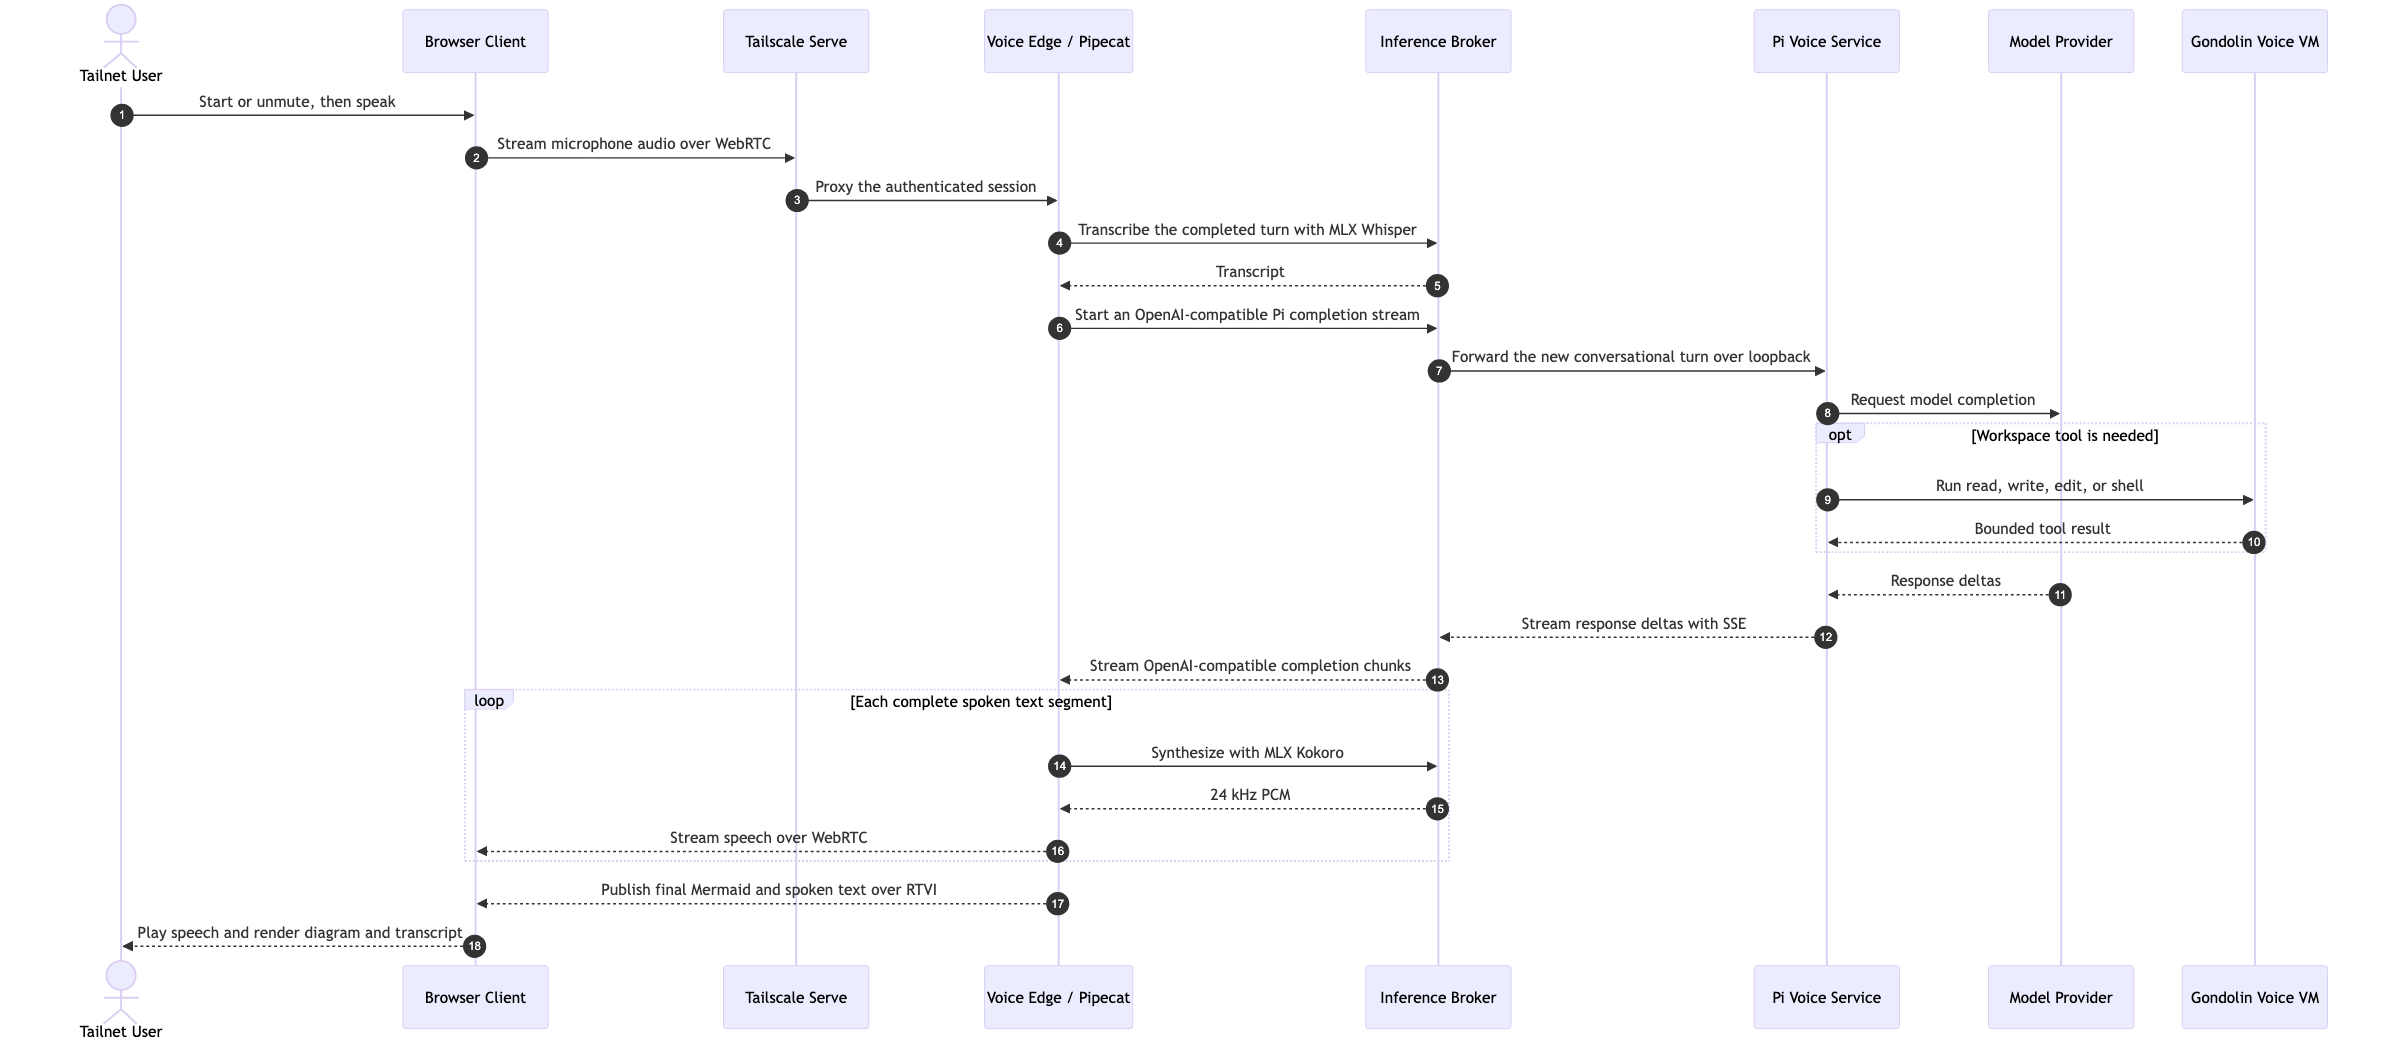
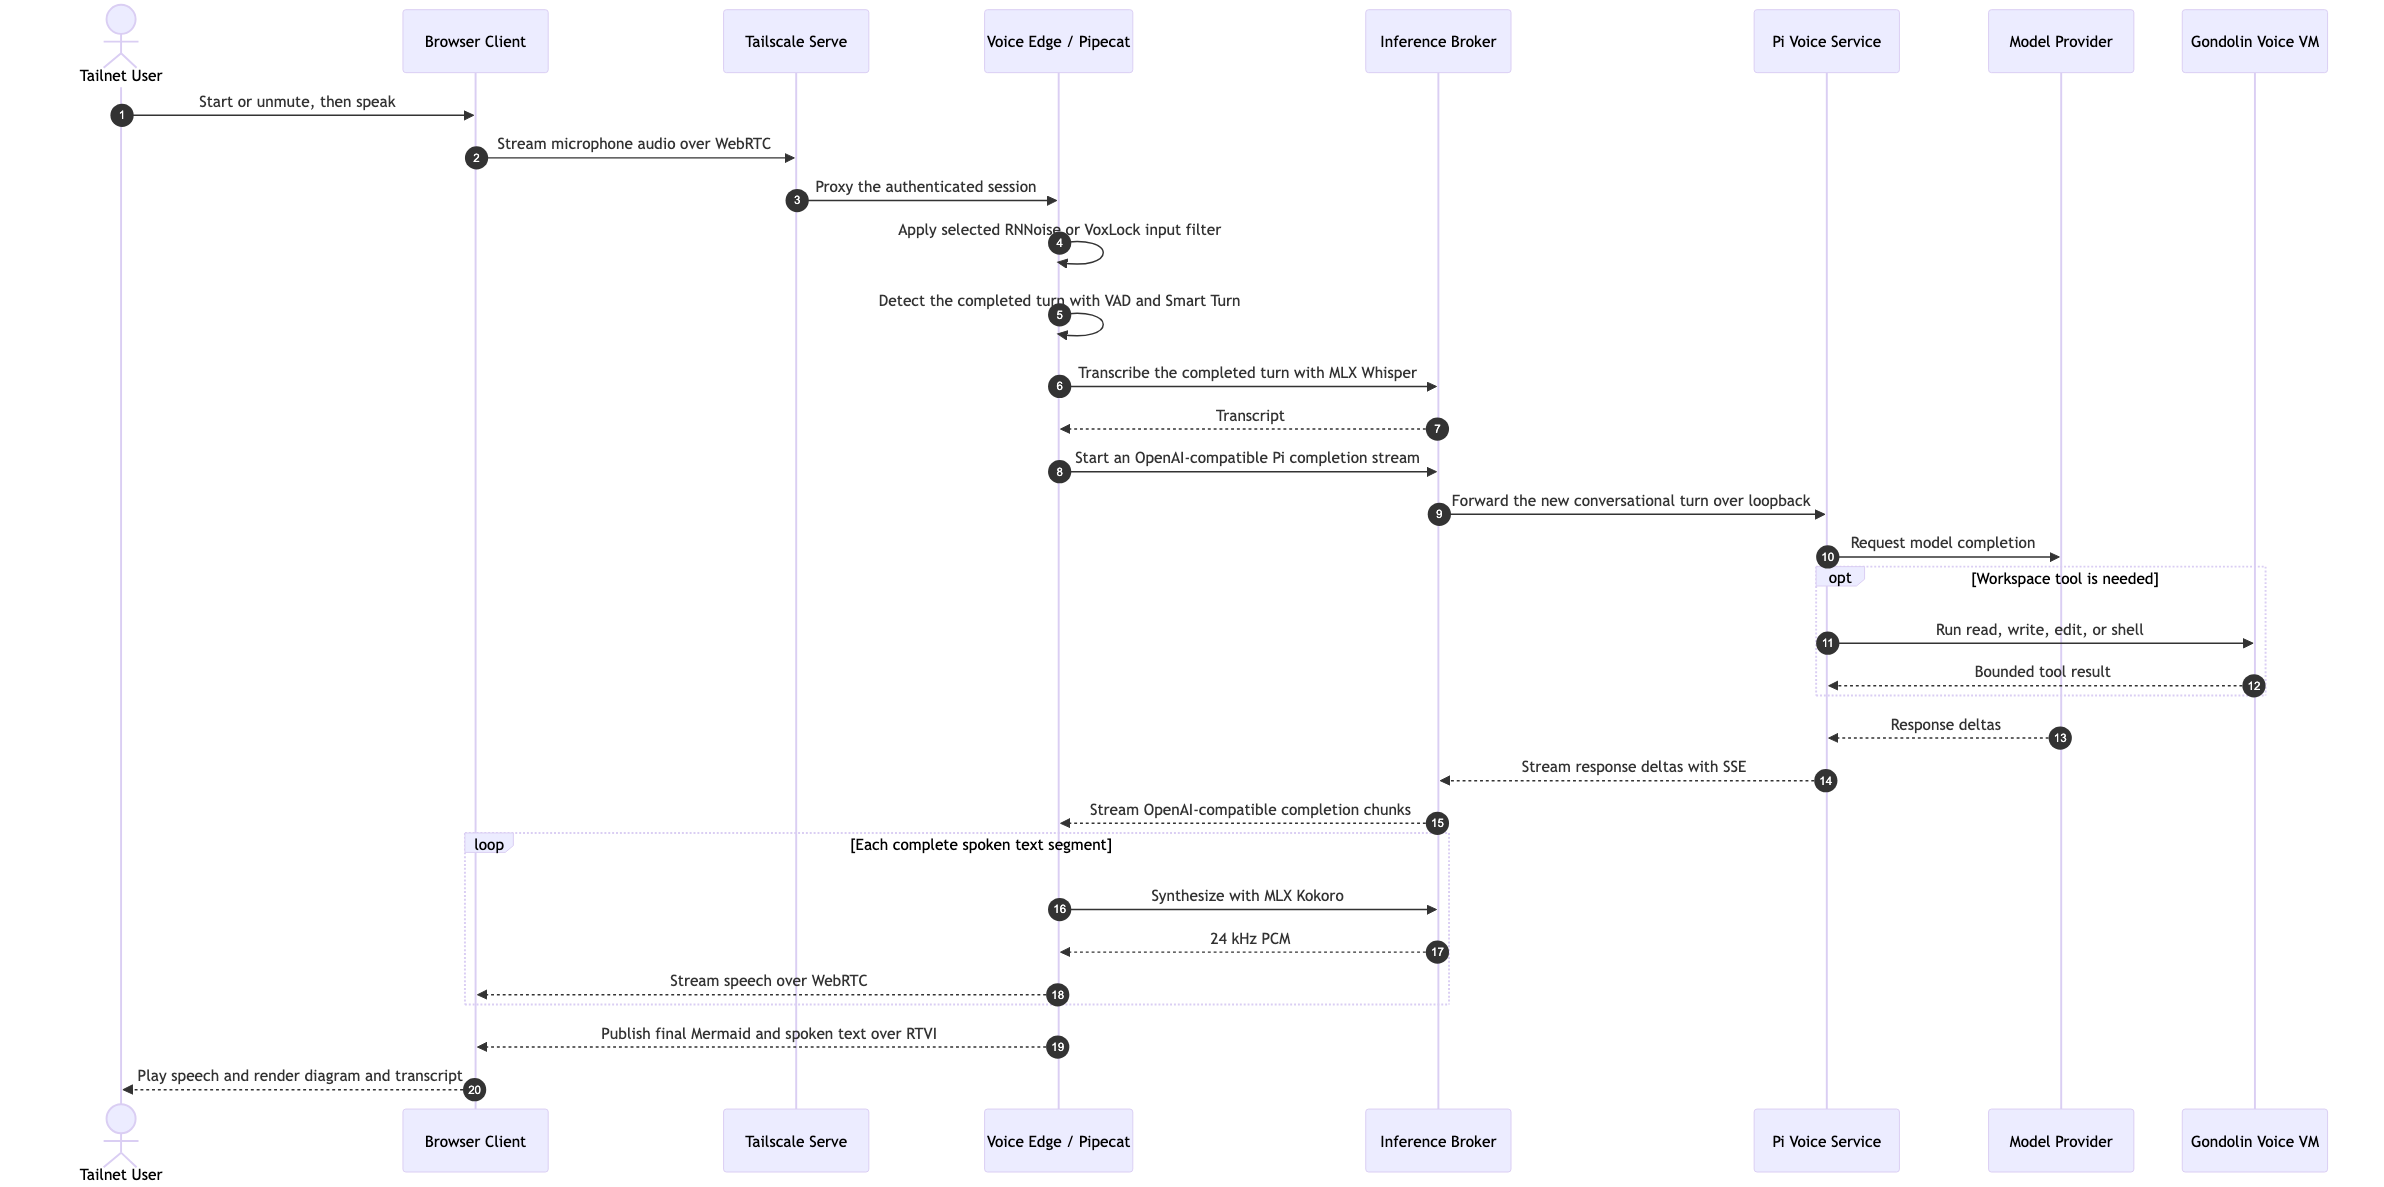
docs(voice): align architecture and Grafana ingress

diff --git a/products/voice-agent/docs/architecture/README.md b/products/voice-agent/docs/architecture/README.md
@@ -12,12 +12,15 @@ notation is used for runtime views because it preserves order without crossing r
 | C2 containers | Which independently running parts own voice, Pi, task, artifact, and telemetry responsibilities? | [c2-container.mmd](c2-container.mmd) | [PNG](c2-container.png) |
 | D1 interactive voice turn | Where does one microphone turn go before audio and Mermaid return to the browser? | [d1-interactive-voice-turn.mmd](d1-interactive-voice-turn.mmd) | [PNG](d1-interactive-voice-turn.png) |
 | D2 delegated task | How does requested project work become an isolated durable task and result? | [d2-delegated-task.mmd](d2-delegated-task.mmd) | [PNG](d2-delegated-task.png) |
+| D3 context management | How does the browser observe and compact the persistent Pi context without reading transcript content? | [d3-context-management.mmd](d3-context-management.mmd) | [PNG](d3-context-management.png) |
 | Deployment/security | Where do the parts run and which trust boundaries do they cross? | [deployment-security.mmd](deployment-security.mmd) | [PNG](deployment-security.png) |
 
 Pipecat is an off-the-shelf library inside the **Voice Edge**, not a separately deployed service.
 It owns WebRTC media orchestration, Silero VAD, Smart Turn v3, STT/LLM/TTS sequencing, heartbeats,
-and pipeline metrics. The React client uses Pipecat RTVI, while Tailscale Serve is the only browser
-ingress. There is no Caddy or public/LAN application port.
+and pipeline metrics. Before turn detection, the edge applies exactly one server-side input filter:
+RNNoise by default or VoxLock when owner-voice isolation is enabled. The React client uses Pipecat
+RTVI, while Tailscale Serve is the only browser ingress. It exposes the voice UI on tailnet HTTPS
+and Grafana on tailnet-only port 8443; there is no Caddy or public/LAN application port.
 
 The active conversational backend is the native **Pi Voice Service**. The edge calls it through the
 capability-limited **Inference Broker**, which converts the streamed native Pi response into the
@@ -38,8 +41,10 @@ Wassette with explicit permissions.
 | Browser Client | `client/src/`; production assets copied by `edge/Containerfile` |
 | Tailnet Ingress | `deploy/compose.yml`; `scripts/compose-login.sh` |
 | Voice Edge | `edge/bot.py`; `edge/Containerfile` |
+| Input Audio Filter | `edge/audio_filter.py`; `deploy/prepare_compose.py`; `edge/Containerfile` |
 | Inference Broker | `server/src/voice_agent/speech/presentation/http.py`; broker LaunchAgent |
 | Pi Voice Service | `services/pi-agent/voice-agent-service.ts`; Pi voice LaunchAgent |
+| Pi Context Usage and Compaction | `client/src/components/App.tsx`; `edge/bot.py`; broker HTTP adapter; `services/pi-agent/voice-agent-service.ts` |
 | Voice Tool Sandbox and Runtime Data | `services/pi-agent/gondolin-workspace.ts`; `scripts/install-launch-agents.sh` |
 | Agent Gateway | `server/src/voice_agent/tasking/presentation/gateway.py`; `gateway/Containerfile` |
 | Task Database and Queue | `server/migrations/`; `tasking/application/service.py`; Compose Postgres service |
@@ -57,7 +62,8 @@ privilege escalation, and receive only narrowly scoped secrets. No service mount
 
 Tailscale authenticates the device, terminates trusted HTTPS, and injects the owner identity. The edge
 requires the exact configured origin and single allowed tailnet login before accepting signaling or
-owner-scoped HTTP operations.
+owner-scoped HTTP operations. Grafana accepts the injected login only from the fixed Tailscale
+container address; direct loopback access continues to require its generated administrator password.
 
 MLX and host-held Pi credentials stay in native loopback-only services because Docker Desktop does not
 provide those host capabilities directly. The broker exposes bounded STT, TTS, Pi completion, and
@@ -66,7 +72,9 @@ selection API. Native Pi tools run inside Gondolin micro-VMs. Optional integrati
 Wassette with declared network and secret permissions.
 
 OTel exports metrics and traces only. Application log export is disabled, Docker logging is disabled
-for content-bearing services, and voice content is deliberately excluded from telemetry.
+for content-bearing services, and voice content is deliberately excluded from telemetry. VoxLock's
+owner sample is a generated Compose secret, while its digest-verified model is baked into the
+read-only edge image; neither is exported through telemetry.
 
 ## Render and verify
 

diff --git a/products/voice-agent/README.md b/products/voice-agent/README.md
@@ -154,10 +154,13 @@ audio or transcript text.
 ## Local observability
 
 The pinned `grafana/otel-lgtm` development bundle provides Grafana, Prometheus, Tempo, and an OTLP
-collector. Open <http://127.0.0.1:3300>, use user `admin`, and obtain the generated local password
-with `make grafana-password`. The provisioned **Pipecat Voice Overview** dashboard shows operation
-rates, p95 durations, errors, and recent traces for the voice edge, gateway, and native MLX
-inference broker.
+collector. From an authenticated tailnet device, open
+<https://pipecat-edge.tailf6d713.ts.net:8443>; Grafana trusts only the identity header injected by
+the Tailscale proxy and does not ask for another password. Direct Mac-loopback access at
+<http://127.0.0.1:3300> still requires user `admin`; obtain its generated password with
+`make grafana-password`. The provisioned **Pipecat Voice Overview** dashboard shows operation rates,
+p95 durations, errors, and recent traces for the voice edge, gateway, and native MLX inference
+broker.
 
 Grafana and OTLP/HTTP bind only to Mac loopback. OTLP/gRPC, Prometheus, Tempo, and Loki ports are not
 published. Application and bundle Docker logs remain disabled, and applications do not send the

diff --git a/products/voice-agent/HOST_REQUIREMENTS.md b/products/voice-agent/HOST_REQUIREMENTS.md
@@ -81,7 +81,9 @@ The `otel-lgtm` bundle is connected to the private control network. Only Grafana
 published, both on loopback; collector and datastore ports are not exposed to the LAN or tailnet.
 Telemetry deliberately excludes logs and all user-controlled values. Its named volume contains
 only operation metrics and sanitized traces and can be removed separately if local telemetry must
-be erased.
+be erased. Tailscale Serve exposes Grafana separately on tailnet-only HTTPS port 8443 and injects
+the authenticated login; Grafana accepts that header only from the fixed Tailscale container IP.
+Direct loopback access continues to require the generated Grafana admin password.
 
 The phone must run Tailscale and join the same tailnet. Tailscale Serve terminates trusted HTTPS,
 adds the authenticated tailnet identity, and forwards HTTP and WebSocket traffic directly to
